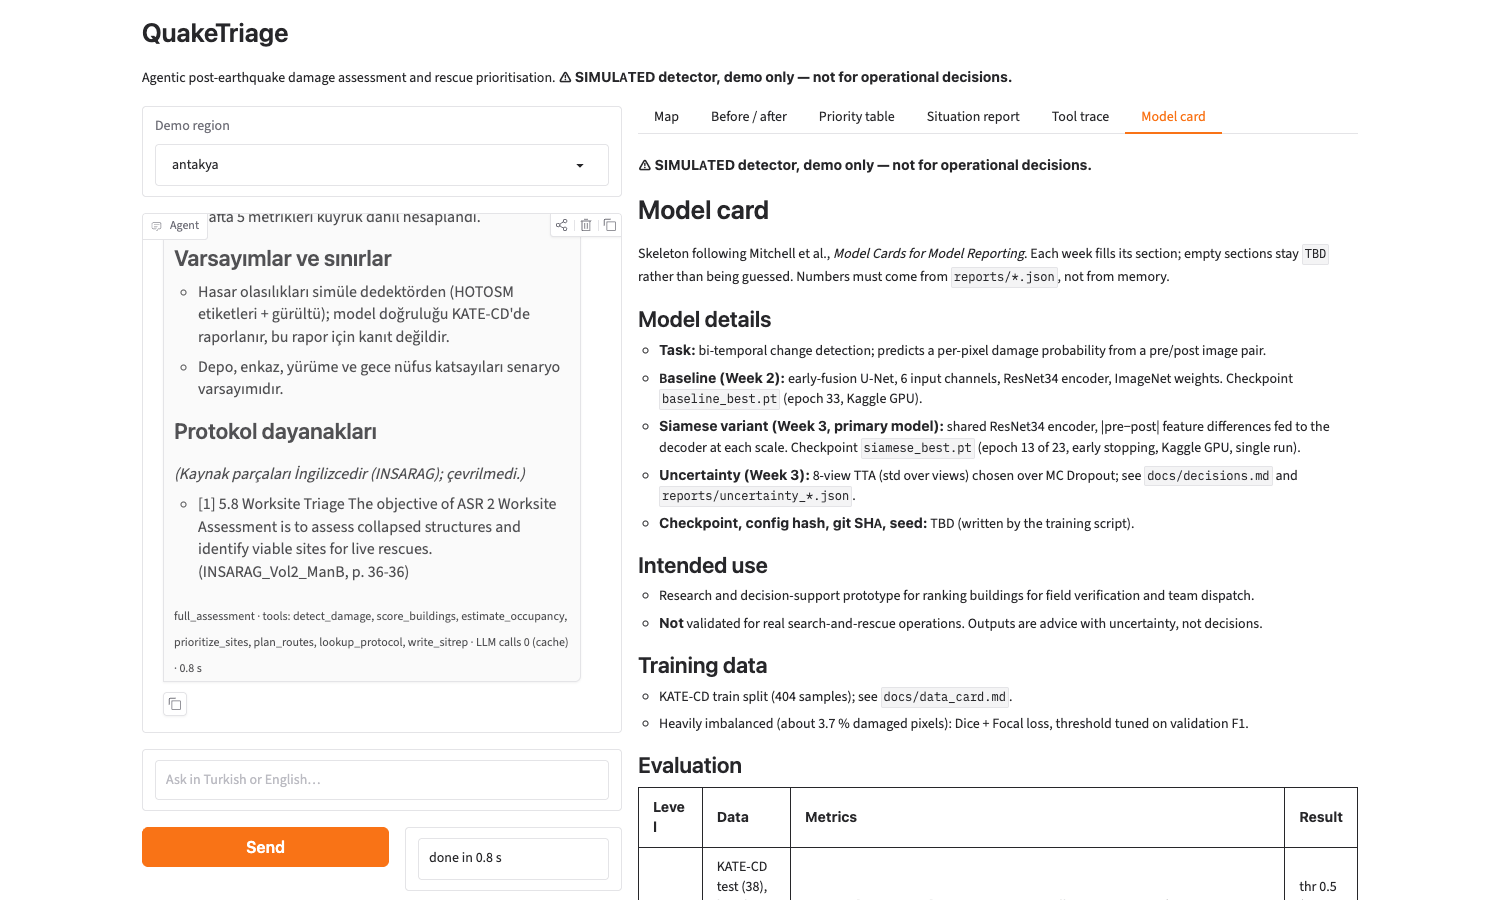
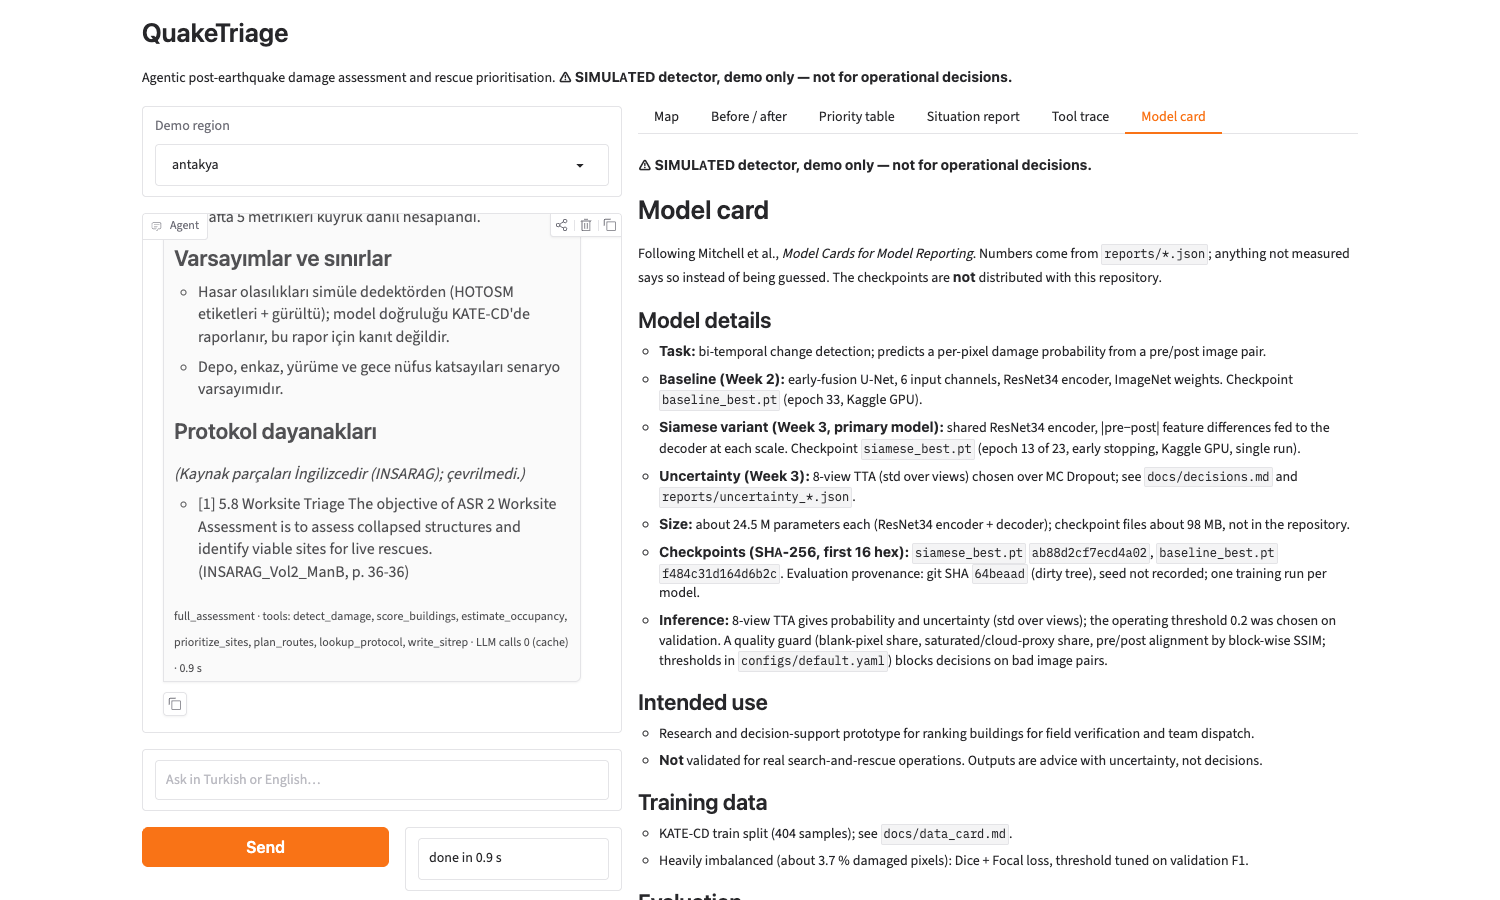
docs: UI screenshots (no satellite imagery), tour GIF, 60-90 s demo script

diff --git a/PLAN.md b/PLAN.md
@@ -245,7 +245,7 @@ Her haftanın sonunda **tamamlanma kriterleri (DoD)** sağlanmalı. Sağlanamazs
 - [x] Gradio arayüzü:
   - sol: demo bölgesi seçimi + sohbet
   - sağ sekmeler: Harita (hasar katmanı, öncelik işaretleri, rotalar) / Öncesi-Sonrası (ImageSlider) / Öncelik tablosu / Durum raporu (indirilebilir) / Araç izi / Model kartı
-- [ ] Ekran görüntüleri, 60–90 saniyelik demo GIF/video
+- [x] Ekran görüntüleri, 60–90 saniyelik demo GIF/video (ekran görüntüleri + `docs/images/demo_tour.gif` + `docs/demo_script.md`; video Proje sahibinin)
 - [ ] README (İngilizce): problem, mimari diyagramı, sonuç tabloları, kurulum, veri lisansları, sınırlamalar, etik
 - [x] `LICENSE` (kod: MIT; veri lisansları ayrıca belirtilir), model kartı
 - [ ] Yayın kontrol listesi: geçmişte sır yok (`git log -p | grep -i key`), büyük dosya yok, lisanslar doğru
